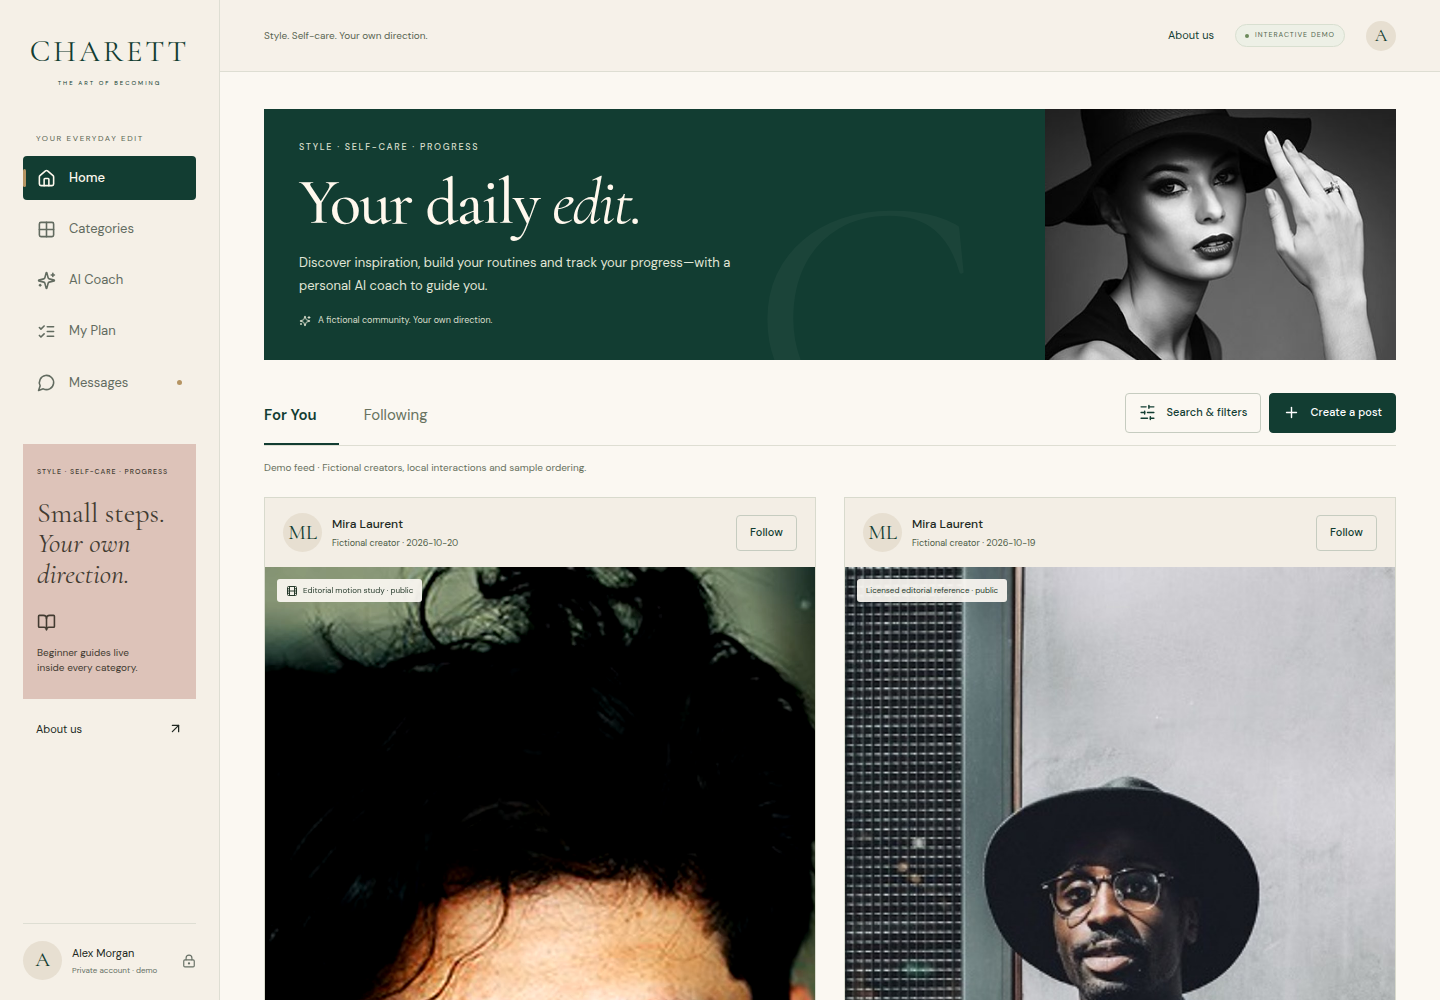
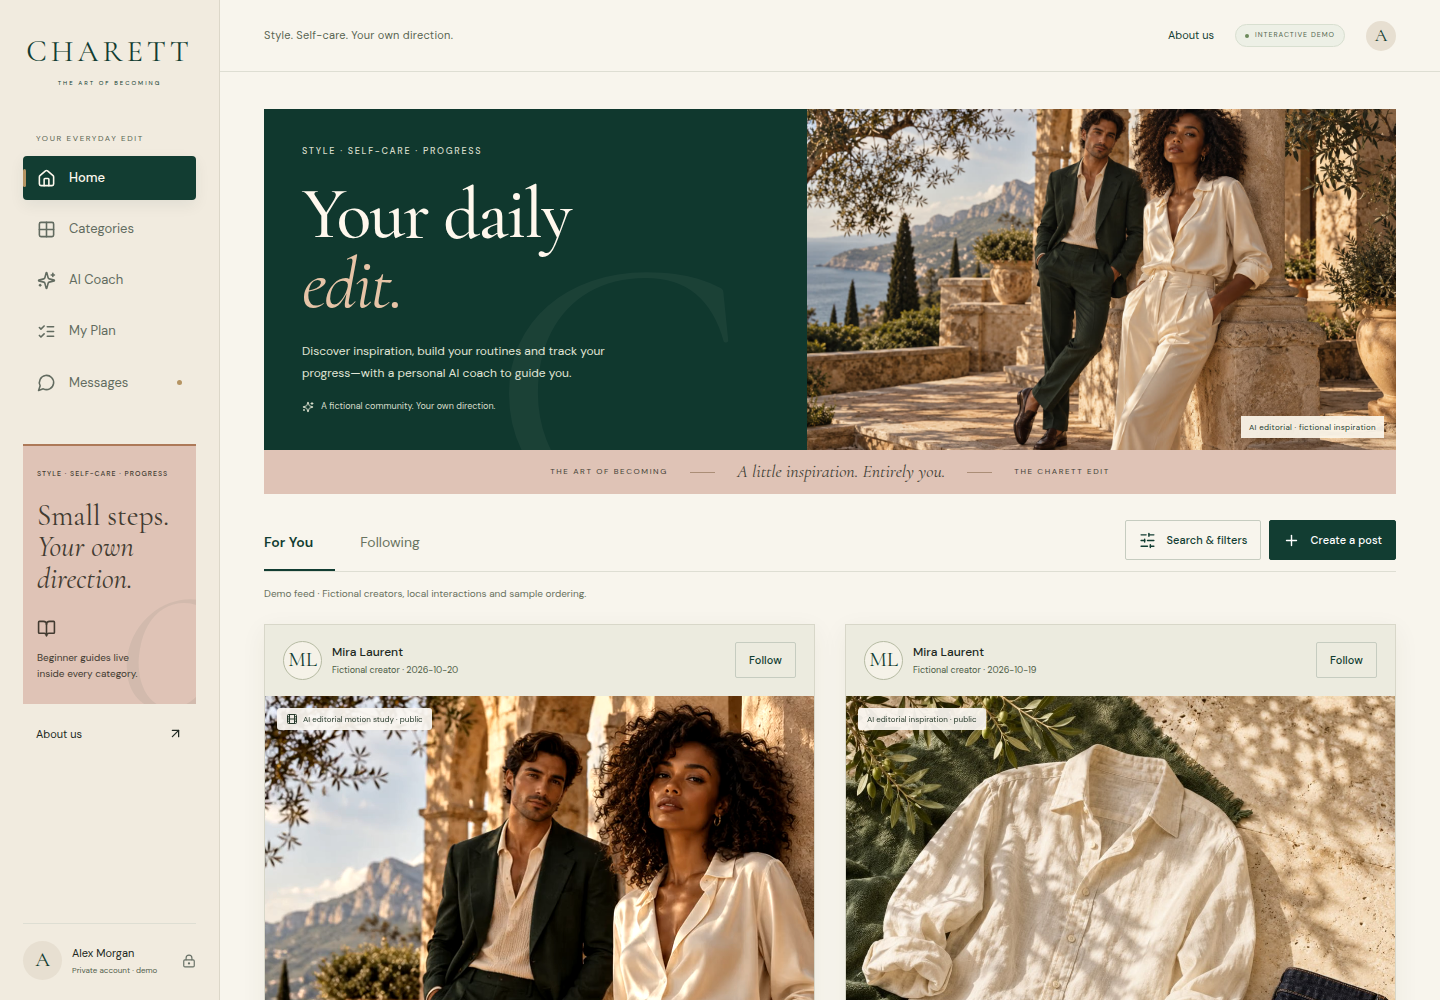
Record verified CHARETT editorial and sounds publication

diff --git a/docs/WEB_PUBLICATION.md b/docs/WEB_PUBLICATION.md
@@ -1,43 +1,43 @@
-# CHARETT public website — publication status
-
-**22 October 2026:** the third-iteration editorial design and post sounds are complete and locally checked. Publishing the update is temporarily blocked by rejected GitHub authentication. The public evidence below verifies the **second version**, not the new local export. See ITERATION_3.md and verification/iteration-3-local.json. Do not tell visitors the new design/sounds are live until public verification succeeds.
+# CHARETT public website — editorial design and post sounds
 
 **https://chrisjelammers1907-lab.github.io/Looksmaxx-coach/**
 
-The second version is live. Existing open tabs should be refreshed to load it. Choose **Skip for now** or complete the optional introduction. No installation or GitHub login is needed.
+The third iteration is live. Refresh an existing tab to load the new design. No installation or GitHub login is needed. Choose **Skip for now** or complete the optional introduction.
 
 ## Public verification
 
-GitHub Actions run `39496395487` completed successfully on **20 October 2026 at 22:58 CEST** (20:58 UTC).
+GitHub Actions run `39843465689` completed successfully on **22 October 2026 at 21:50 CEST** (19:50 UTC).
 
-- Verified source commit: `d34a1c7c84f9249797616fa6ae1d775022a03922`.
-- Pages content commit: `fdab8857b858288997b3837a5c87f0370d0c9ffd`, branch `gh-pages`, root `/`.
-- Evidence commit: `33ca97ab9837314b1d8ab5e2fd42649a536ce261`, branch `charett-publication-status`.
[1 lines of base64/hex data omitted]
-- Fresh Chrome contexts without a login passed at 1440×1000 and 390×844, including mobile touch emulation.
-- Both exercised For You, video playback, all eight category routes and their beginner guides, route reloads, wardrobe editing, comments, simulated linked-card sharing and round trips, reviewed coach changes, plan updates, account/profile navigation and About us.
-- No browser, HTTP or failed-request errors occurred. Actual public-page desktop and mobile screenshots were retrieved and visually inspected.
+- Verified source commit: `351b11755f6601fb6a96ab3c230c22898a8f9917`.
+- Pages content commit: `02f599b9f7b8084b98127879027ce51aaa62e8d0`, branch `gh-pages`, root `/`.
+- Evidence commit: `3231dbc36d265934ae9715bb5301242b452cf2ec`, branch `charett-publication-status`.
[1 lines of base64/hex data omitted]
+- Fresh Chrome contexts without a login passed at 1440 × 1000 and 390 × 844, including mobile touch emulation.
+- Both exercised For You, video playback with an attached sound, photo-sound playback, choosing/previewing/attaching a sound to a new private post and setting its volume, all eight category routes/guides, route reloads, wardrobe editing, comments, linked-card sharing and round trips, reviewed coach changes, plan updates, profile navigation and About us.
+- No browser, HTTP or failed-request errors occurred. The actual public screenshots were retrieved and visually inspected.
 
-The initial configuration snapshot reported Pages as `building`. The verifier waited until the public HTML matched the new export before exercising it; the actual served bytes and successful browser journeys establish which version was checked. The separate browser report records `localFixture: false` and `publicBrowserVerified: true`.
+The initial configuration snapshot reported Pages as `building`. The verifier waited until the public HTML matched the intended export before exercising it. The browser report records `localFixture: false` and `publicBrowserVerified: true`.
 
-[Public verification record](verification/iteration-2-public.json), [desktop screenshot](screenshots/home-desktop.png), [mobile screenshot](screenshots/home-mobile.png).
+[Public verification record](verification/iteration-3-public.json), [desktop screenshot](screenshots/home-desktop.png), [mobile screenshot](screenshots/home-mobile.png). The second-version evidence remains in verification/iteration-2-public.json.
 
 ## Local verification
 
-The full 58-test browser regression run passed, along with 15 domain tests, type checking, lint, formatting and the normal production build. After the last menu fix, the two affected desktop/mobile navigation journeys passed again. The final standalone export was also tested on both viewport sizes under `/Looksmaxx-coach/` before publication, with `publicBrowserVerified: false` for the local fixture. See [PROGRESS.md](PROGRESS.md).
+The 64-case browser regression run passed 63 cases and found an animated-sidebar contrast failure. Removing the colour/background transition resolved it; both affected desktop/mobile accessibility journeys passed on rerun. Every selected case has passed across these runs; a single all-green 64-case rerun is not claimed. The six new sound cases cover previews, selection, photo/video playback, volume mixing, removal, single-player coordination and viewport/navigation cleanup.
 
-These are Chrome checks at two viewport sizes. Physical mobile devices, Safari, Firefox, real accounts, live model responses and real message delivery are not claimed as tested.
+Fifteen domain tests, type checking, lint, formatting and the normal production build passed. Ten important pages were inspected at both viewport sizes with no overflow or exceptions. My Plan also passed a focused accessibility scan at both sizes after the colour corrections. The final standalone export passed both viewport journeys under `/Looksmaxx-coach/` before publication, correctly marking the local fixture as not public verification. The compiled preview was restarted and its mobile sound/navigation/guide journey passed.
+
+These are Chrome checks at two viewport sizes. Physical phones, Safari, Firefox, real accounts, live AI replies and real message delivery are not claimed as tested. The optional standalone file was tested over HTTP; managed-browser policy prevented direct `file://` checks.
 
 ## Content and privacy
 
-Only fictional demo content and licensed editorial assets are embedded in the three-file website branch: `.nojekyll`, `README.md`, `index.html`. Owner photos, personal routines, PDFs, health profiles, credentials and the original build brief are excluded from that branch.
+The three-file website branch contains only `.nojekyll`, `README.md` and `index.html`. It embeds fictional demo content, licensed stock, original labelled AI editorial inspiration and three original instrumental sounds. Owner photos, routines, PDFs, health profiles, credentials and the original build brief are excluded from that branch. Media are bundled; no third-party music-streaming catalogue is connected.
 
-Personal uploads and edits stay in the browser tab; original photos/videos cannot enter public demo posts. Public/private account settings, follower approval and independent journal audience preferences are local simulations, not production authentication. AI responses, feed ordering, shopping, visualizations and social activity remain clearly labelled demos.
+Personal uploads and edits stay in the browser tab; uploaded originals cannot enter public demo posts. Account privacy, follower approvals and independent journal audience choices remain local simulations. AI coach replies, ranking, shopping, in-app generation and social activity stay clearly labelled demos. The static editorial assets were generated for this iteration and are not customers, exact product depictions, achieved progress or real try-on results. The five-second motion study animates a fictional AI still, with optional separately controlled instrumental audio.
 
-Beginner guides map the supplied reference files to useful educational material and explain which claims were not adopted. No clinical review, treatment protocol, live official-page verification or guaranteed result is claimed. Direct AAD, FDA, NHS and Victoria’s Secret access was blocked by the cloud egress proxy; see SOURCE_INVENTORY.md. Enlarged feed images have the requested pixel dimensions but do not gain source detail. The video is a labelled silent motion study made from licensed stock photography.
+Beginner guides retain the attachment-to-guide mapping and distinguish cautious basics and preferences from unverified source claims. No clinical review, treatment protocol, live official-page verification or guaranteed result is claimed. Direct AAD, FDA, NHS and Victoria’s Secret access was blocked by the cloud proxy. Upscaled licensed portraits do not gain source detail; the new editorial still lifes have higher-resolution source assets. See ASSET_CREDITS.md and SOURCE_INVENTORY.md.
 
 ## Maintenance
 
-Run `node scripts/build-standalone.mjs` after source changes, update the fictional-only `gh-pages` index, then trigger the `Verify CHARETT publication` workflow. It can run on matching demo-source pushes, tags matching `charett-verify-*`, or manual dispatch. It waits for the intended HTML checksum before testing the actual Pages URL and records results on the separate evidence branch. Inspect that evidence and its source commit before supplying a visitor link.
+Run `node scripts/build-standalone.mjs` after source changes, refresh the ZIP, publish the exact fictional-only export to `gh-pages`, then trigger the Verify CHARETT publication workflow. It runs on matching source pushes, tags matching `charett-verify-*`, or manual dispatch. Check the intended source commit, exact HTML checksum, public browser results and screenshots before handing over a link.
 
-This cloud machine still blocks direct access to the external Pages host. Successful public checks run in the GitHub-hosted runner. A cloud-local test, authenticated raw download, saved environment draft or ChatGPT chat URL does not prove a public website works. Earlier 404 delivery failures are resolved by the verified Pages publication above.
+This cloud machine still blocks direct access to the Pages host (CONNECT 403); real public verification runs on the GitHub-hosted runner. A temporary Git authentication rejection during this iteration resolved on a later native-Git check. Both pushes then succeeded without the owner needing to change a token or setting. No credential was exposed, stored in source or replaced. Publication is no longer blocked.

diff --git a/docs/ITERATION_3.md b/docs/ITERATION_3.md
@@ -19,4 +19,4 @@ Milestones 1–3 are complete. The 64-case browser regression run passed 63 case
 
 Ten key pages were inspected at 1440 × 1000 and 390 × 844 with no overflow or browser exceptions. The final standalone export passed its desktop/mobile journeys at the real website path on a local HTTP fixture, including sound previews and attached photo/video audio. This local check explicitly records `publicBrowserVerified: false`. See verification/iteration-3-local.json and screenshots/iteration-3-local-*.png.
 
-Milestone 4 is blocked by GitHub authentication: an initially working Git connection began requiring credentials, and the environment-provided GH_TOKEN was rejected with “Invalid username or token”. No credential was printed or committed. The owner has been asked to renew the connection. The existing public website has not been described as containing this iteration; WEB_PUBLICATION.md retains the last externally verified version. Resume by publishing the ready export and verifying the exact public bytes and browser journeys after authentication is restored.
+Milestone 4 is complete. A temporary Git authentication rejection resolved on a later native-Git check; no owner credential change was needed. The ready export was published to `gh-pages` commit `02f599b9f7b8084b98127879027ce51aaa62e8d0`. GitHub-hosted public Chrome run `39843465689` passed without login at both viewport sizes, serving the exact final export. It exercised the new photo/video sounds and composer previews in addition to all existing publication journeys. Public screenshots were inspected; evidence is saved in verification/iteration-3-public.json. See WEB_PUBLICATION.md for exact source/evidence commits and remaining browser limitations.

diff --git a/docs/PROGRESS.md b/docs/PROGRESS.md
@@ -81,4 +81,4 @@ Validation: 15 domain tests; typecheck, lint, formatting and build passed. Final
 
 The ready standalone HTML is 3,451,984 bytes, SHA-256 5fde55df6c5f4979b7e779764bba8e094710e541ca71498c31fc2677075deb25. Its size includes all images/audio/video/fonts and does not require external media requests. The expected standalone chunk-size warning does not indicate build failure.
 
-Publication is pending renewed GitHub authorization: native Git began returning a username prompt; the existing environment token was then explicitly rejected as invalid. No new public deployment or successful external browser verification is claimed. The prior public version remains the last verified deployment.
+The temporary native-Git authentication rejection resolved on a later check. Both source and Pages pushes succeeded without an owner token/settings change. Public Actions run 39843465689 passed for source 351b11755f6601fb6a96ab3c230c22898a8f9917; evidence 3231dbc36d265934ae9715bb5301242b452cf2ec. The real HTTPS export matched the final SHA-256, and fresh Chrome desktop/mobile journeys passed for sounds, all topics/guides, route reloads, wardrobe, comments, linked cards, coach/plan and profile/About navigation with no errors. Actual public screenshots were inspected and retained. A restarted compiled-preview mobile sound/navigation/guide check and focused My Plan accessibility scans also passed. Publication is complete; WEB_PUBLICATION.md records the current verified version.
